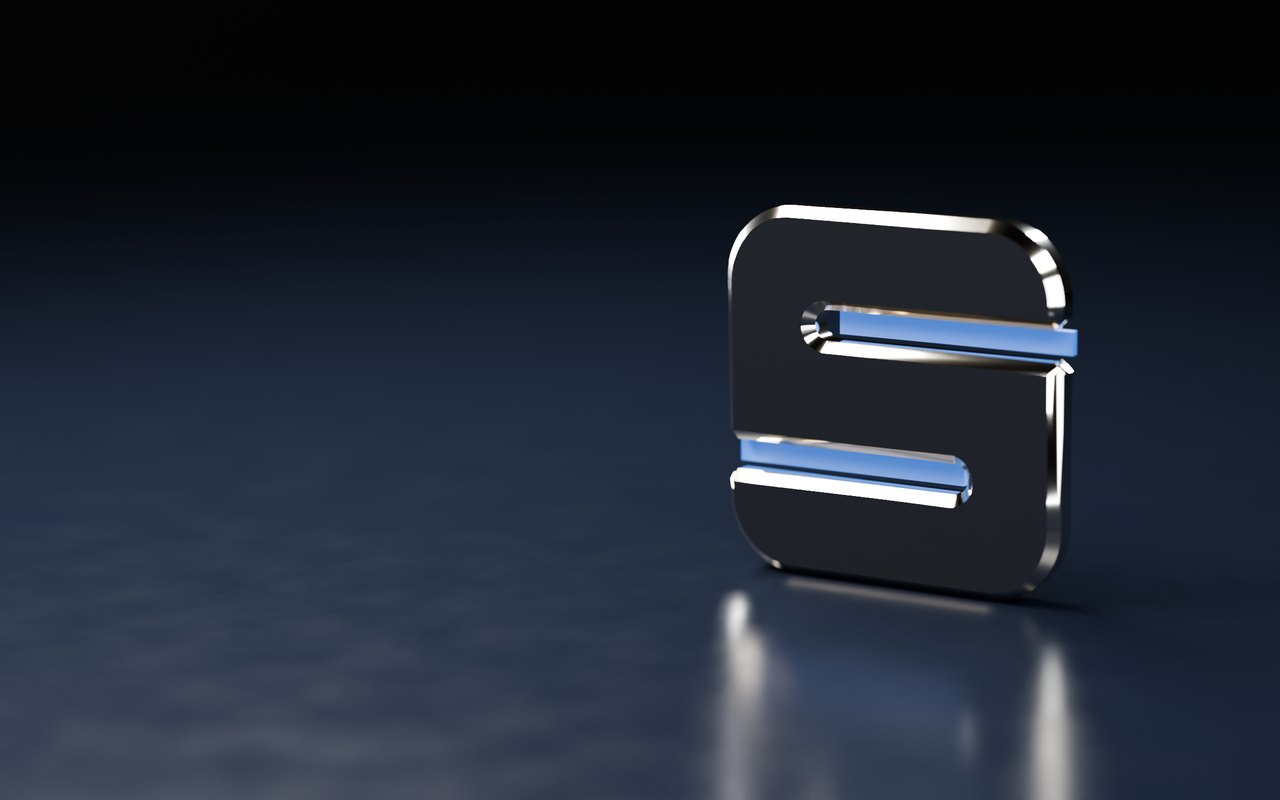
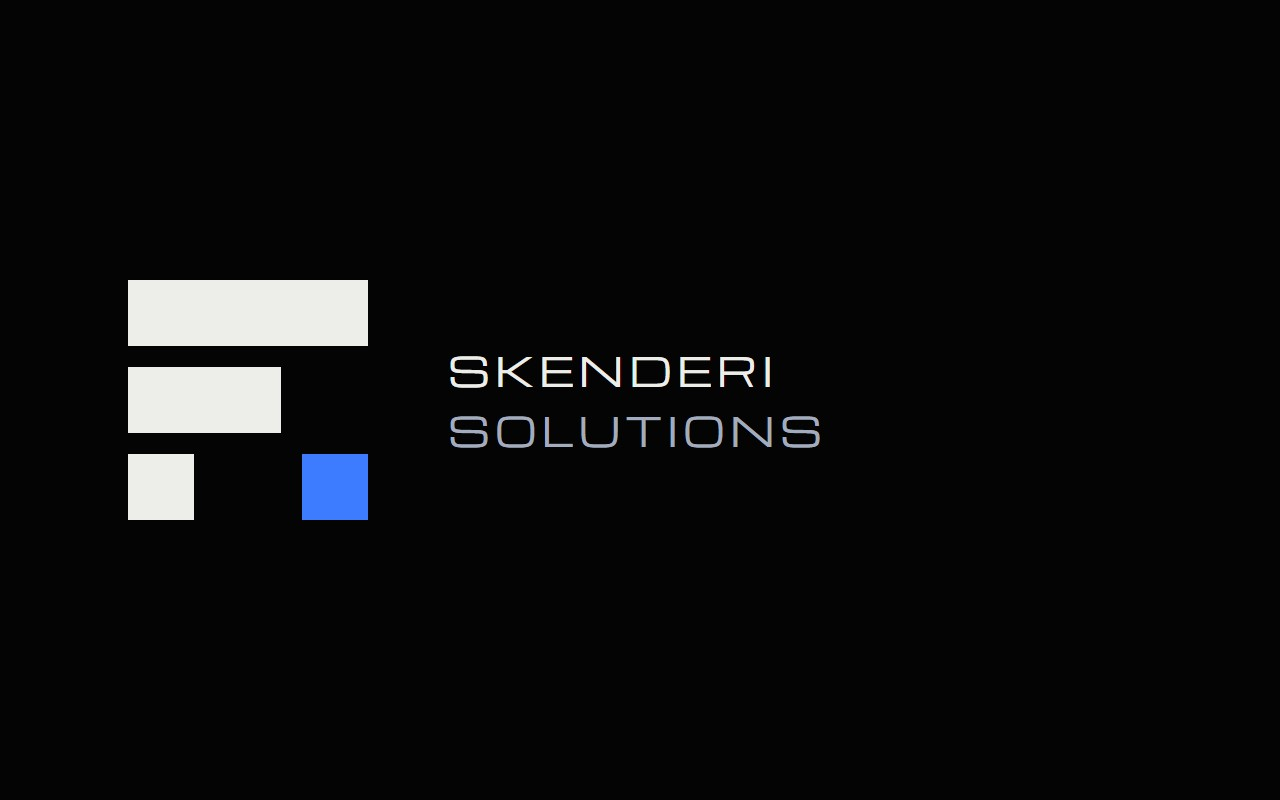
feat: Neues Zeichen ohne Metall: drei Stufen zum blauen Quadrat
Flaches Vektorzeichen statt Render, scharfe Ecken und eine Akzentfarbe wie die Website.
Hero und Stage zeigen das Zeichen als SVG mit kurzer Aufbau-Animation (reduced-motion: statisch).
Favicon (SVG+PNG), Apple-Touch-Icon und og.jpg neu; Render-Bilder entfernt.

diff --git a/app/src/ui.tsx b/app/src/ui.tsx
@@ -1,5 +1,5 @@
 import { useRef, useState, type FormEvent } from 'react'
-import { motion, useMotionValueEvent, useScroll, useSpring } from 'framer-motion'
+import { motion, useMotionValueEvent, useReducedMotion, useScroll, useSpring } from 'framer-motion'
 import { ArrowRight, ArrowUpRight, Check, Menu, X } from 'lucide-react'
 import { toast } from 'sonner'
 import { Link, usePath } from './router'
@@ -15,10 +15,51 @@ export function openMail(subject: string, body: string) {
 export const H2 = 'font-display text-[clamp(1.7rem,3.4vw,2.9rem)] leading-[1.12] tracking-[-0.02em] text-balance'
 export const WRAP = 'mx-auto max-w-[1280px] px-5 md:px-8'
 
-/* ---------- brand: the rendered titanium S ---------- */
+/* ---------- brand: three steps that shorten toward one blue square, the plan and where it lands ---------- */
 
-export function Mark({ className = 'size-9' }: { className?: string }) {
-  return <img src="/img/mark-96.webp" srcSet="/img/mark-96.webp 1x, /img/mark-192.webp 2x" alt="" width={36} height={36} className={`${className} rounded-[7px]`} />
+const BARS = [
+  { y: 48, w: 160 },
+  { y: 106, w: 102 },
+  { y: 164, w: 44 },
+]
+
+export function Mark({ className = 'size-7' }: { className?: string }) {
+  return (
+    <svg viewBox="48 48 160 160" className={className} aria-hidden>
+      {BARS.map((r) => (
+        <rect key={r.y} x={48} y={r.y} width={r.w} height={44} fill="#EDEDE9" />
+      ))}
+      <rect x={164} y={164} width={44} height={44} fill="#3D7BFF" />
+    </svg>
+  )
+}
+
+/* the mark at display size: the steps slide out one after another, then the blue square lands */
+export function BigMark({ className = '' }: { className?: string }) {
+  const reduce = useReducedMotion()
+  return (
+    <svg viewBox="48 48 160 160" className={className} role="img" aria-label="Das Zeichen von Skenderi Solutions: drei Stufen, die zu einem blauen Quadrat führen">
+      {BARS.map((r, i) => (
+        <motion.g
+          key={r.y}
+          initial={reduce ? false : { scaleX: 0 }}
+          animate={{ scaleX: 1 }}
+          transition={{ duration: 0.7, ease: [0.16, 1, 0.3, 1], delay: 0.15 + i * 0.12 }}
+          style={{ originX: 0 }}
+        >
+          <rect x={48} y={r.y} width={r.w} height={44} fill="#EDEDE9" />
+        </motion.g>
+      ))}
+      <motion.g
+        initial={reduce ? false : { opacity: 0, scale: 0.5 }}
+        animate={{ opacity: 1, scale: 1 }}
+        transition={{ duration: 0.45, ease: [0.16, 1, 0.3, 1], delay: 0.75 }}
+        style={{ originX: 0.5, originY: 0.5 }}
+      >
+        <rect x={164} y={164} width={44} height={44} fill="#3D7BFF" />
+      </motion.g>
+    </svg>
+  )
 }
 
 export function Lockup() {
@@ -140,26 +181,15 @@ export function QuickForm({ subject = 'Erstgespräch' }: { subject?: string }) {
   )
 }
 
-/* ---------- the render as a stage: the S stands on the right, text sits in the dark on the left ---------- */
+/* ---------- the dark stage: copy left, the mark stands quietly on the right ---------- */
 
 export function Stage({ children, tall = false }: { children: React.ReactNode; tall?: boolean }) {
   return (
     <section id="top" className="relative isolate overflow-hidden bg-night text-paper">
-      {/* wide screens: the render fills the stage, the S stands right of the copy */}
-      <img
-        src="/img/hero.webp"
-        alt=""
-        width={2400}
-        height={1500}
-        fetchPriority="high"
-        className="absolute inset-0 -z-10 hidden size-full object-cover object-[70%_50%] md:block"
-      />
-      <div className="absolute inset-0 -z-10 hidden bg-[linear-gradient(90deg,rgb(4_4_5/0.9)_0%,rgb(4_4_5/0.6)_34%,transparent_56%)] md:block" aria-hidden />
-      <div className={`${WRAP} ${tall ? 'md:min-h-[min(820px,calc(100svh-4rem))] md:pt-28 md:pb-28' : 'md:min-h-[600px] md:pt-24 md:pb-24'} flex flex-col justify-center pt-14`}>
-        <div className="md:max-w-[min(660px,54%)]">{children}</div>
+      <div className={`${WRAP} ${tall ? 'md:min-h-[min(820px,calc(100svh-4rem))] md:py-28' : 'md:min-h-[560px] md:py-24'} grid items-center gap-12 pb-16 pt-14 md:grid-cols-12`}>
+        <div className="md:col-span-7">{children}</div>
+        <BigMark className="hidden w-full max-w-[240px] justify-self-end md:col-span-4 md:col-start-9 md:block" />
       </div>
-      {/* phones: the S gets its own frame under the copy instead of hiding behind it */}
-      <img src="/img/hero-1280.webp" alt="" width={1280} height={800} className="mt-12 aspect-[5/4] w-full object-cover object-[86%_60%] md:hidden" />
     </section>
   )
 }

diff --git a/app/src/Home.tsx b/app/src/Home.tsx
@@ -2,41 +2,27 @@ import { useEffect } from 'react'
 import { ArrowRight } from 'lucide-react'
 import { Link } from './router'
 import { CATEGORIES, inCategory } from './solutions'
-import { Contact, H2, Process, QuickForm, ServiceList, WRAP } from './ui'
+import { BigMark, Contact, H2, Process, QuickForm, ServiceList, WRAP } from './ui'
 
-/* the landing: the headline owns the top, the rendered mark gets its own wide frame underneath */
+/* the landing: headline and form on the left, the mark drawn large on the right */
 function Hero() {
   return (
     <section id="top" className="relative isolate overflow-hidden bg-night text-paper">
-      <div className={`${WRAP} relative z-10 pt-14 md:pt-20`}>
-        <h1 className="font-display text-[clamp(2.1rem,5.6vw,5.4rem)] leading-[1.04] tracking-[-0.03em]">
-          IT, die geplant ist.
-          <br />
-          <span className="text-steel">Nicht geflickt.</span>
-        </h1>
-        <div className="mt-10 grid gap-10 md:mt-14 lg:grid-cols-12 lg:items-end lg:gap-8">
-          <p className="max-w-[46ch] text-[19px] leading-[1.6] text-[#C9D0DD] lg:col-span-5">
+      <div className={`${WRAP} grid items-center gap-14 pb-20 pt-14 md:pb-28 md:pt-20 lg:min-h-[min(760px,calc(100svh-4rem))] lg:grid-cols-12 lg:gap-8`}>
+        <div className="lg:col-span-8">
+          <h1 className="font-display text-[clamp(2.1rem,4.8vw,4.5rem)] leading-[1.04] tracking-[-0.03em]">
+            IT, die geplant ist.
+            <br />
+            <span className="text-steel">Nicht geflickt.</span>
+          </h1>
+          <p className="mt-10 max-w-[46ch] text-[19px] leading-[1.6] text-[#C9D0DD]">
             Netzwerk, Cloud, Sicherheit, Websites, eigene Software und Automatisierung für KMU. Ein Ansprechpartner, ein Plan, der aufgeht.
           </p>
-          <div className="lg:col-span-6 lg:col-start-7 lg:flex lg:justify-end">
+          <div className="mt-10">
             <QuickForm />
           </div>
         </div>
-      </div>
-      <div className="relative mt-6 md:-mt-10">
-        <picture>
-          <source media="(min-width: 768px)" srcSet="/img/hero.webp" />
-          <img
-            src="/img/hero-1280.webp"
-            alt="Das Zeichen von Skenderi Solutions: ein gefrästes Titan-S mit blauem Licht in den Schlitzen"
-            width={2400}
-            height={1500}
-            fetchPriority="high"
-            className="h-[clamp(300px,44vw,640px)] w-full object-cover object-[80%_58%]"
-          />
-        </picture>
-        {/* the render's black sky melts into the page above */}
-        <div className="pointer-events-none absolute inset-x-0 top-0 h-1/3 bg-gradient-to-b from-night to-transparent" aria-hidden />
+        <BigMark className="order-first w-[clamp(88px,24vw,120px)] lg:order-none lg:col-span-3 lg:col-start-10 lg:w-full lg:max-w-[280px] lg:justify-self-end" />
       </div>
     </section>
   )

diff --git a/app/index.html b/app/index.html
@@ -2,11 +2,10 @@
 <html lang="de-CH">
   <head>
     <meta charset="UTF-8" />
+    <link rel="icon" type="image/svg+xml" href="/favicon.svg" />
     <link rel="icon" type="image/png" href="/favicon.png" />
     <link rel="apple-touch-icon" href="/apple-touch-icon.png" />
     <link rel="preload" href="/fonts/michroma-400-latin.woff2" as="font" type="font/woff2" crossorigin />
-    <link rel="preload" href="/img/hero.webp" as="image" media="(min-width: 768px)" />
-    <link rel="preload" href="/img/hero-1280.webp" as="image" media="(max-width: 767px)" />
     <meta name="viewport" content="width=device-width, initial-scale=1.0" />
     <meta name="theme-color" content="#040405" />
     <meta name="description" content="Skenderi Solutions: Netzwerk, Cloud, Sicherheit, Websites, Web-Apps und Automatisierung für KMU in der Schweiz." />

diff --git a/README.md b/README.md
@@ -2,7 +2,7 @@
 
 Website für **Skenderi Solutions**, IT-Dienstleister für KMU in der Schweiz: Netzwerk, Arbeitsplätze, Cloud & Microsoft 365, Sicherheit & Backup, Websites.
 
-Das Design heisst „Titan“: ein gerendertes Titan-Zeichen (Blender Cycles, `render/scene.py`) in einem dunklen Studio, darum flache Papierseiten mit Navy-Tinte, das Logo-Blau als einzige Signalfarbe, eckige Formen, keine Schatten. Jede Leistung hat eine eigene Unterseite unter `/leistungen/<slug>` (15 Leistungen in 5 Bereichen). Schriften: Michroma (Überschriften) und Host Grotesk.
+Das Design heisst „Zeichen: drei Stufen, die zu einem blauen Quadrat führen.py`) in einem dunklen Studio, darum flache Papierseiten mit Navy-Tinte, das Logo-Blau als einzige Signalfarbe, eckige Formen, keine Schatten. Jede Leistung hat eine eigene Unterseite unter `/leistungen/<slug>` (15 Leistungen in 5 Bereichen). Schriften: Michroma (Überschriften) und Host Grotesk.
 
 ![Desktop Hero](screenshots/desktop-hero.png)
 
